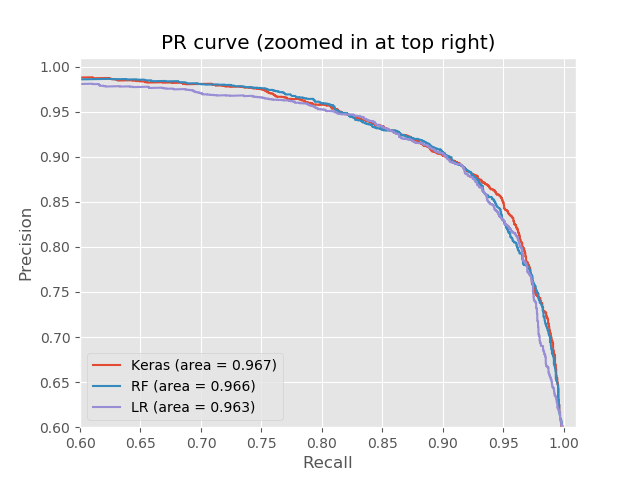
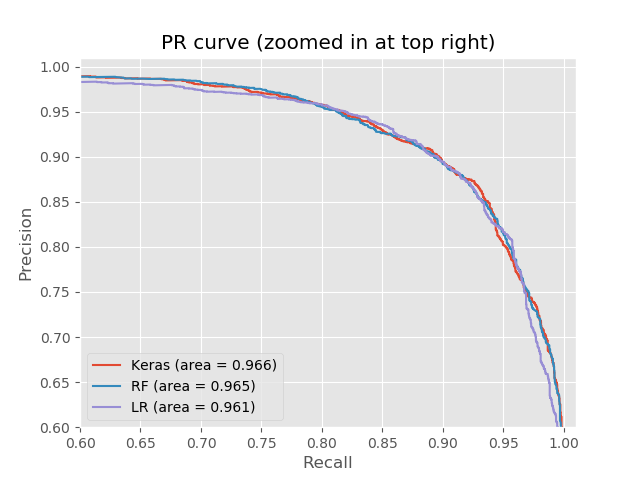
Updated output

diff --git a/Model Evaluation/ModelEval.py b/Model Evaluation/ModelEval.py
@@ -96,13 +96,15 @@ X_TESTING  = data_TESTING [:, :last_column_index]   #all features
 Y_TESTING  = data_TESTING [:, last_column_index]    #classes
 
 #Train ANN and LR
-testing_options = ANN_Options('elu', 12, 3, 32, 0.1)
+#testing_options = ANN_Options('elu', 12, 3, 32, 0.1)
+testing_options = ANN_Options('relu', 6, 3, 32, 0.05)
 print("Training: " + testing_options.writeToFile())
 results = BuildAnn(X_TRAINING, Y_TRAINING, X_TESTING, Y_TESTING, testing_options, verbose=True)
 history = results[4]    #gathers loss and accuracy over the training process
 model = results[5]
 
 print("")
+print("------Keras-----")
 print("Training loss: ", results[0])
 print("Training accuracy: ", results[1])
 print("Testing loss: ", results[2])
@@ -110,10 +112,17 @@ print("Testing accuracy: ", results[3])
 
 mod = linear_model.LogisticRegression(solver="sag",max_iter=3000)
 LR_model = mod.fit(X_TRAINING,Y_TRAINING)
+print("")
+print("-----LR-----")
+print("Testing Accuracy: ", LR_model.score(X_TESTING, Y_TESTING))
 
 # Supervised transformation based on random forests
 rf = RandomForestClassifier(max_depth=10, n_estimators=100)
 rf.fit(X_TRAINING, np.ravel(Y_TRAINING))
+
+print("")
+print("-----RF-----")
+print("Testing Accuracy: ", rf.score(X_TESTING, Y_TESTING))
 
 #Plot ROC and PR curves
 plt.style.use('ggplot')
